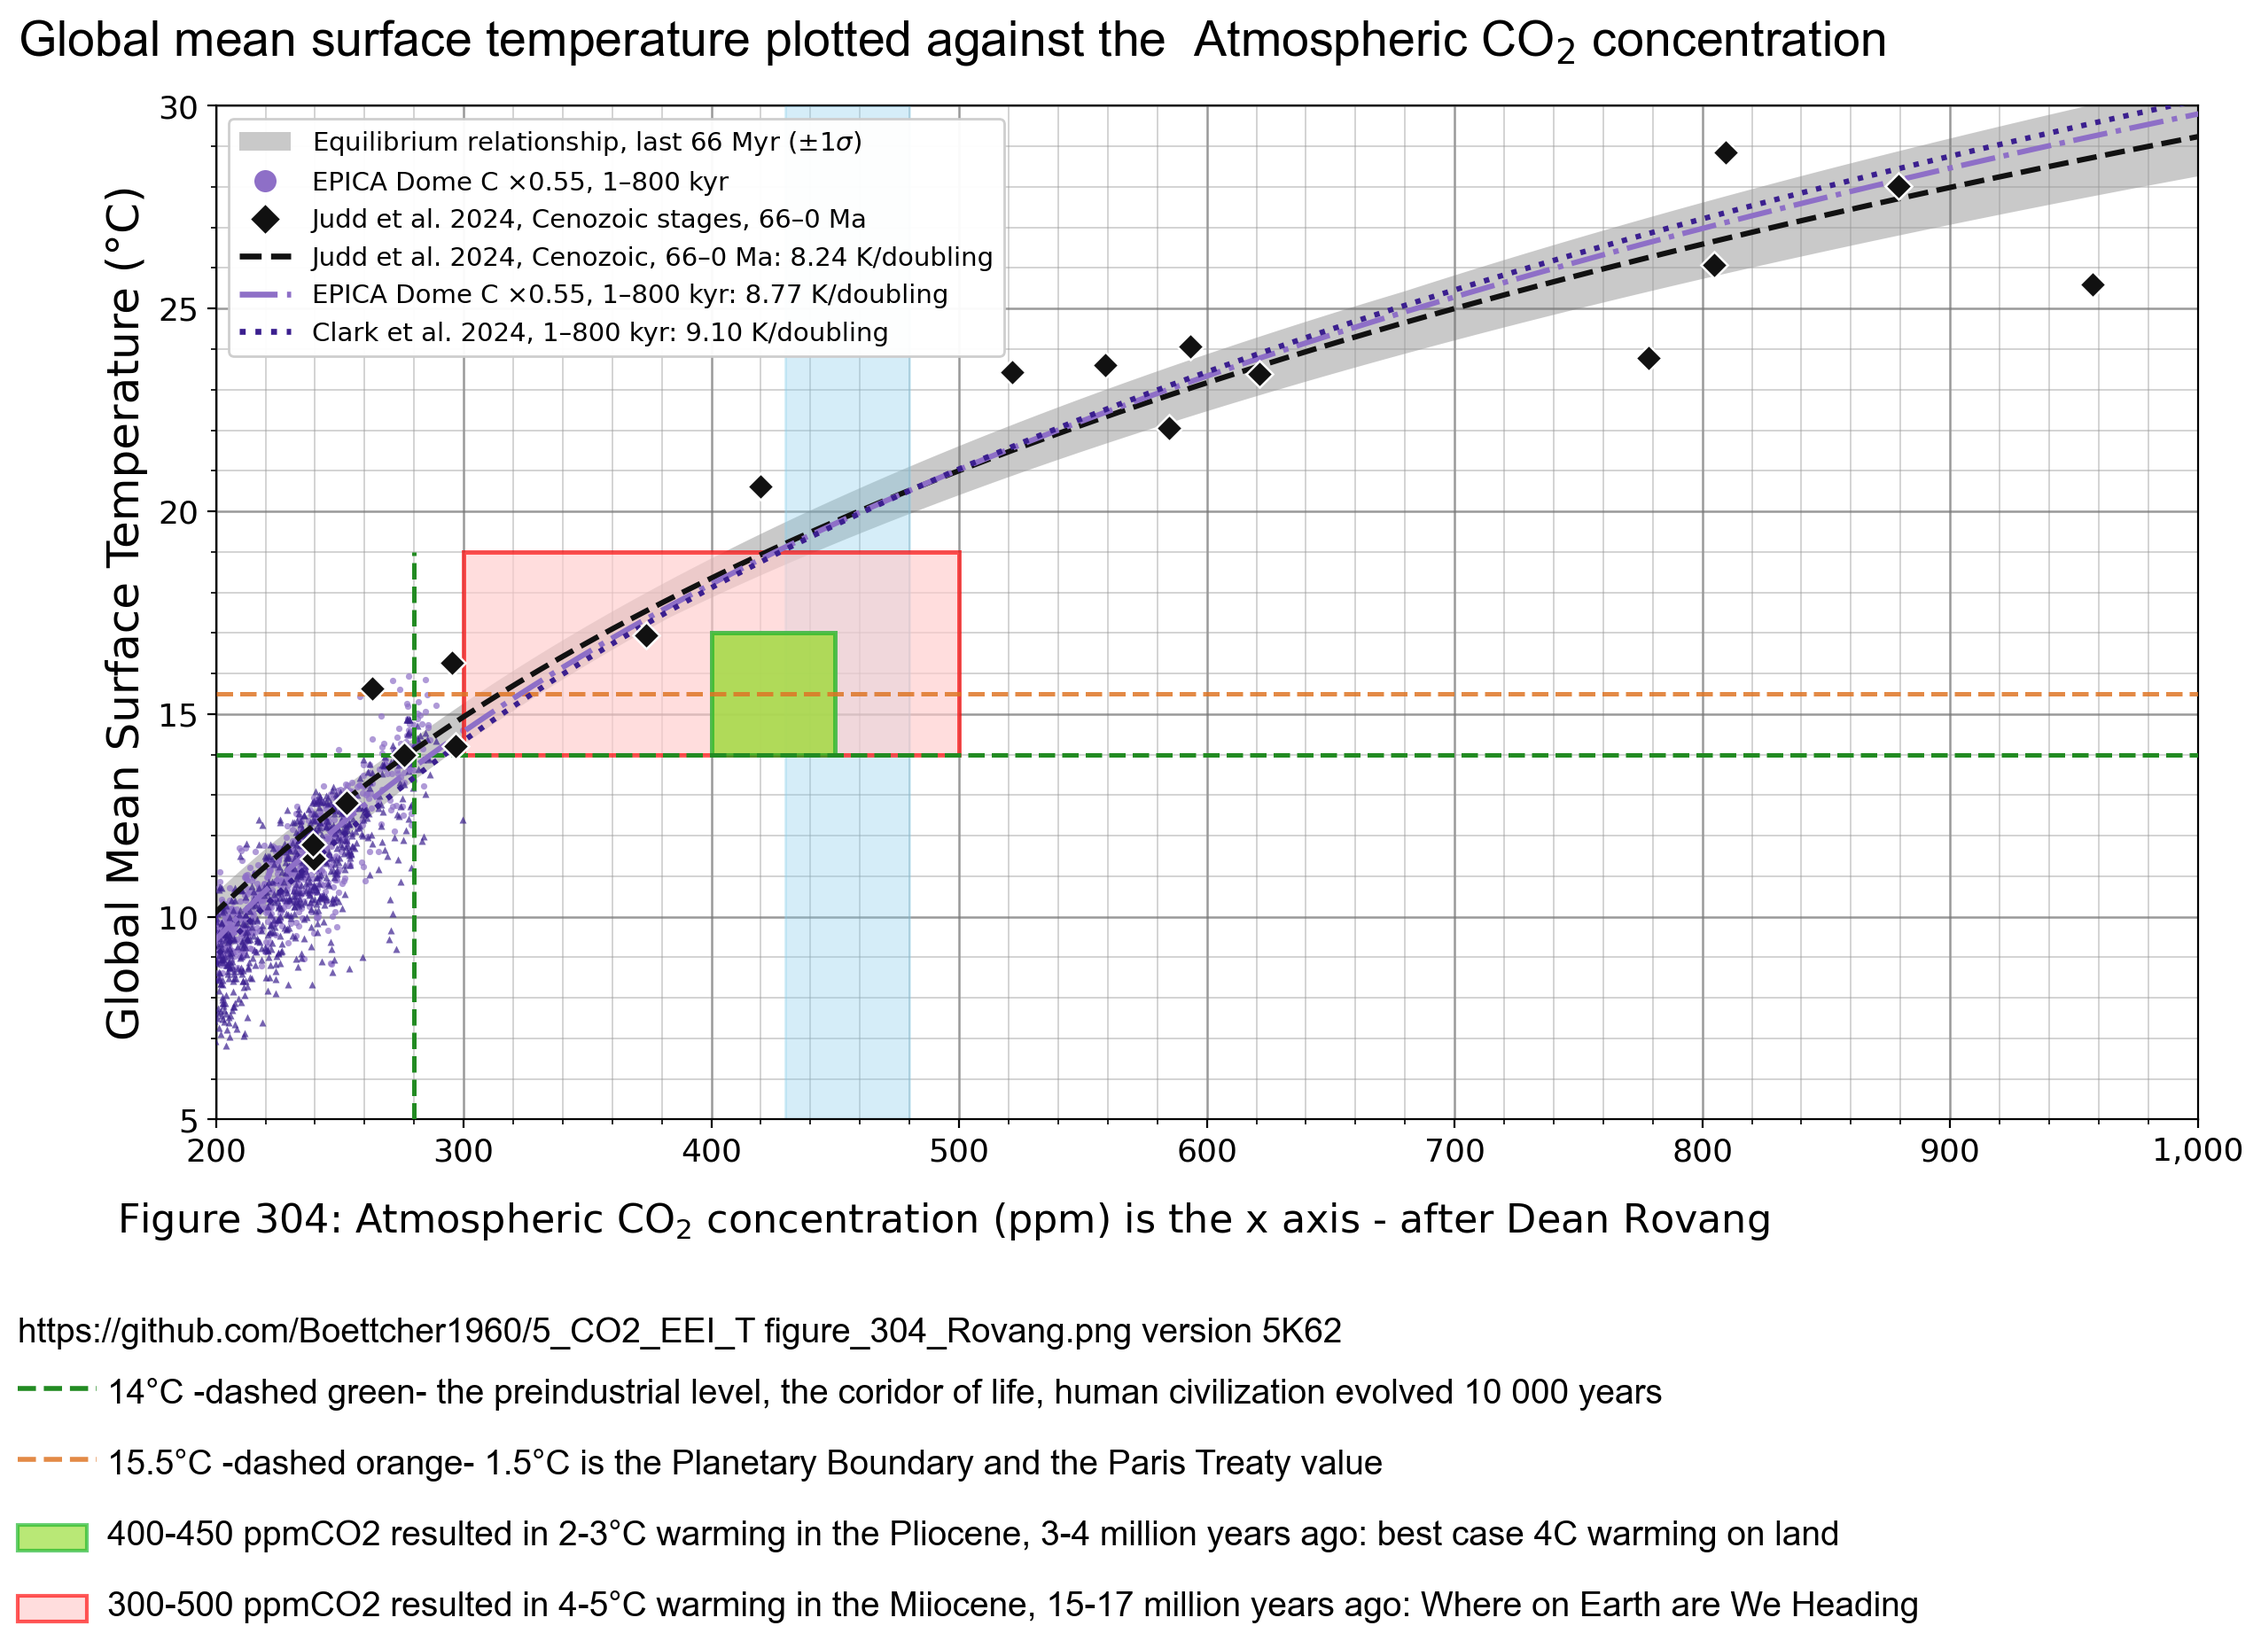
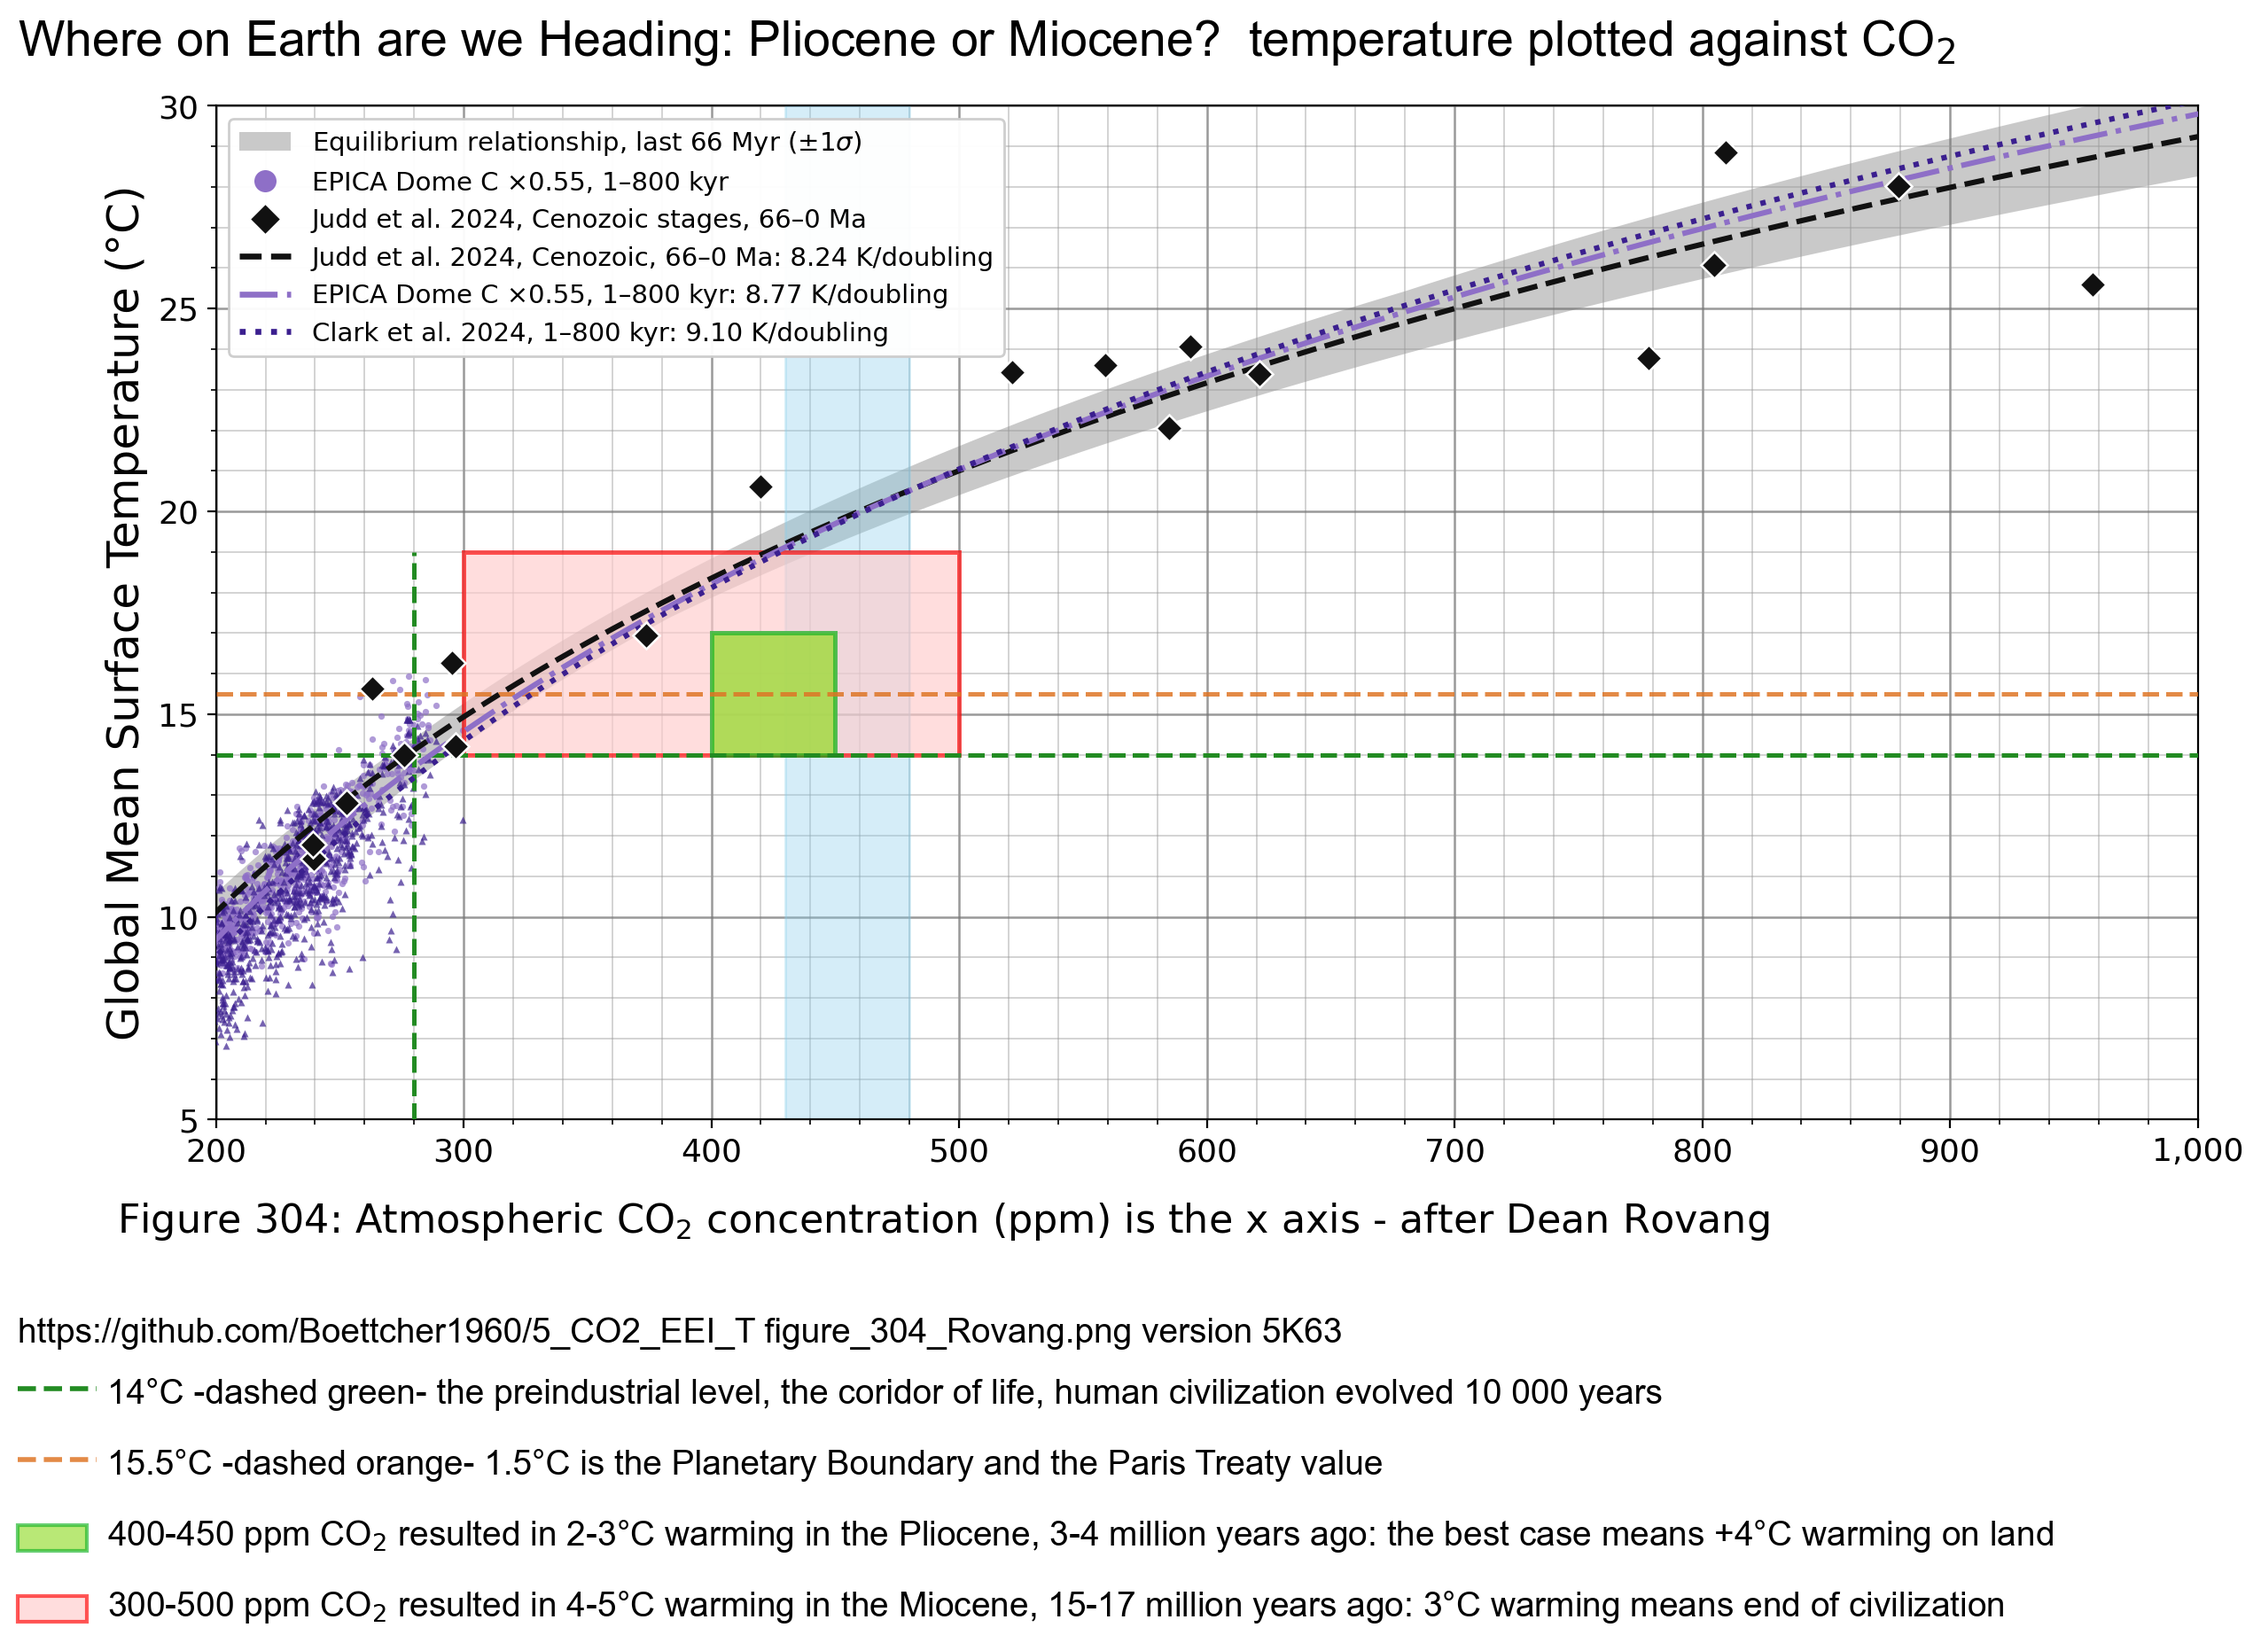
v = "5K63"

diff --git a/Rovang/Rovang_figure_303.py b/Rovang/Rovang_figure_303.py
@@ -156,6 +156,8 @@ def _create_figure(linear_x=False):
     scale_label = "ppm" if linear_x else "ppm, log$_2$ scale"
     # 303.65 print the headline above the plot
     headline1 = "Global mean surface temperature plotted against the  Atmospheric CO$_2$ concentration"
+    headline1 = "Where on Earth are we Heading: Pliocene or Miocene?  temperature plotted against CO$_2$"
+
     ax.text(
         -0.1, 1.05, headline1, color="black", fontname="Arial", fontsize=20,
         transform=ax.transAxes,
@@ -303,7 +305,7 @@ def _create_figure(linear_x=False):
     # 303.156   https://bsky.app/profile/thomas-boettcher.bsky.social/post/3mzzpmbobdc23
 
     # 303.157 print line 5 Mid-Pliocene Warm Period, 3-3.3 million years ago
-    label5 = "400-450 ppmCO2 resulted in 2-3\u00b0C warming in the Pliocene, 3-4 million years ago: best case 4C warming on land"
+    label5 = "400-450 ppm CO$_2$ resulted in 2-3\u00b0C warming in the Pliocene, 3-4 million years ago: the best case means +4\u00b0C warming on land"
     # 303.158 make a red square in the legend below the plot
     if (box303_3Ma == 5):
        ax.add_patch(
@@ -329,7 +331,7 @@ def _create_figure(linear_x=False):
            )
        )
        # 303.164 print line 6 
-       label6 = "300-500 ppmCO2 resulted in 4-5\u00b0C warming in the Miiocene, 15-17 million years ago: Where on Earth are We Heading"
+       label6 = "300-500 ppm CO$_2$ resulted in 4-5\u00b0C warming in the Miocene, 15-17 million years ago: 3\u00b0C warming means end of civilization"
        ax.text(-0.055, t3y6, label6, color="black", fontname="Arial", fontsize=14,
                transform=ax.transAxes)
     else:

diff --git a/main.py b/main.py
@@ -1,5 +1,5 @@
 # main.py
-v = "5K62" # make 4 text lines below the plot like in text_9_print_7_lines():
+v = "5K63" # make 4 text lines below the plot like in text_9_print_7_lines():
 # https://github.com/Boettcher1960/5_CO2_EEI_T
 # ocean stratification https://bsky.app/profile/thomas-boettcher.bsky.social/post/3mj7zx7fzsc26
 # https://drtomharris.substack.com/p/the-great-decoupling-how-ocean-stratification
